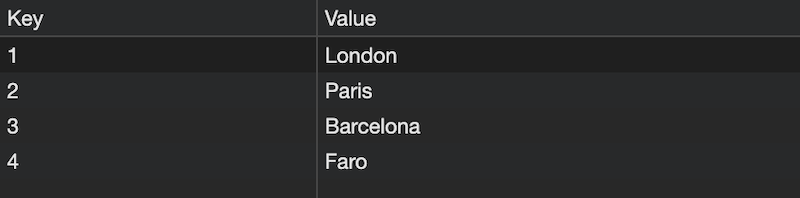
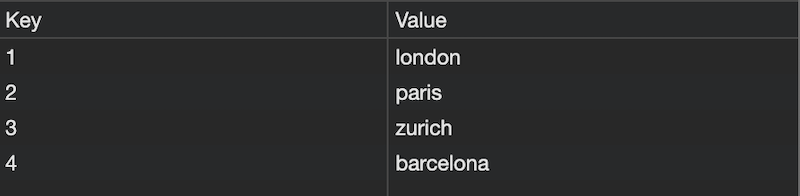
convert current date to timezoned date and update screenshots

diff --git a/assets/js/script.js b/assets/js/script.js
@@ -29,7 +29,7 @@ checkLSData();
 searchButton.on('click', function (event) {
   event.preventDefault();
   cityExists = 0;
-  let city = searchInput.val().trim();
+  let city = searchInput.val().trim().toLowerCase(); // Converts a string to lowercase letters
 
   // Loop to check if the city exists in the local storage
   for (let i = 1; i <= localStorage.length; i++) {
@@ -40,6 +40,7 @@ searchButton.on('click', function (event) {
 
   // If the city doesn't exist in the local storage, call function displayCurrentForecast(city) and displayForecast(city)
   if (cityExists === 0 && city !== '') {
+    // Set the key of the new city to localStorage.length + 1
     localStorage.setItem(localStorage.length + 1, city);
     displayCurrentForecast(city);
     displayForecast(city);
@@ -66,7 +67,8 @@ function displayCurrentForecast(city) {
     }).then(function (result) {
 
       // Create h2 element and set text to city name and the current date
-      const date = dayjs().format('D/M/YYYY');
+      const sunrise = (result.sys.sunrise + result.timezone) * 1000; // Convert to timezoned date
+      const date = dayjs(sunrise).format('D/M/YYYY');
       let h2El = $('<h2>');
       h2El.text(`${city} (${date})`);
       h2El.addClass('float-start text-capitalize');
@@ -83,6 +85,7 @@ function displayCurrentForecast(city) {
       pTemp.text(`Temperature: ${temperature} °C`);
 
       // Get the wind speed value from the API response and add into a <p> tag
+      // Multiply the speed value by 3.6 to convert meter per second to kilometer per hour
       let wind = result.wind.speed * 3.6;
       let pWind = $('<p>');
       pWind.text(`Wind: ${wind.toFixed(2)} KPH`);
@@ -116,9 +119,9 @@ function displayForecast(city) {
       h3El.text('5-day Forecasts:').addClass('w-100');
       forecast.append(h3El);
 
-      //  Loop through the 3 hour forecast data and increase the count by 8 to get the daily forecast 
+      //  Loop through the 3 hour forecast data and increase the count by 8 to get the next 5-day forecast 
       // (24h / 3h = 8h)
-      for (let i = 0; i < 40; i += 8) {
+      for (let i = 1; i < 40; i += 8) {
         // Get the icon from the API response and add it into an <img> tag 
         let icon = result.list[i].weather[0].icon;
         iconForecast = $('<img>');
@@ -136,7 +139,8 @@ function displayForecast(city) {
         let pTemp = $('<p>');
         pTemp.text(`Temperature: ${temperature} °C`);
 
-        // Get the wind speed value from the API response and add it into <p> tag 
+        // Get the wind speed value from the API response and add it into <p> tag
+        // Multiply the speed value by 3.6 to convert meter per second to kilometer per hour
         let wind = result.list[i].wind.speed * 3.6;
         let pWind = $('<p>');
         pWind.text(`Wind: ${wind.toFixed(2)} KPH`);
